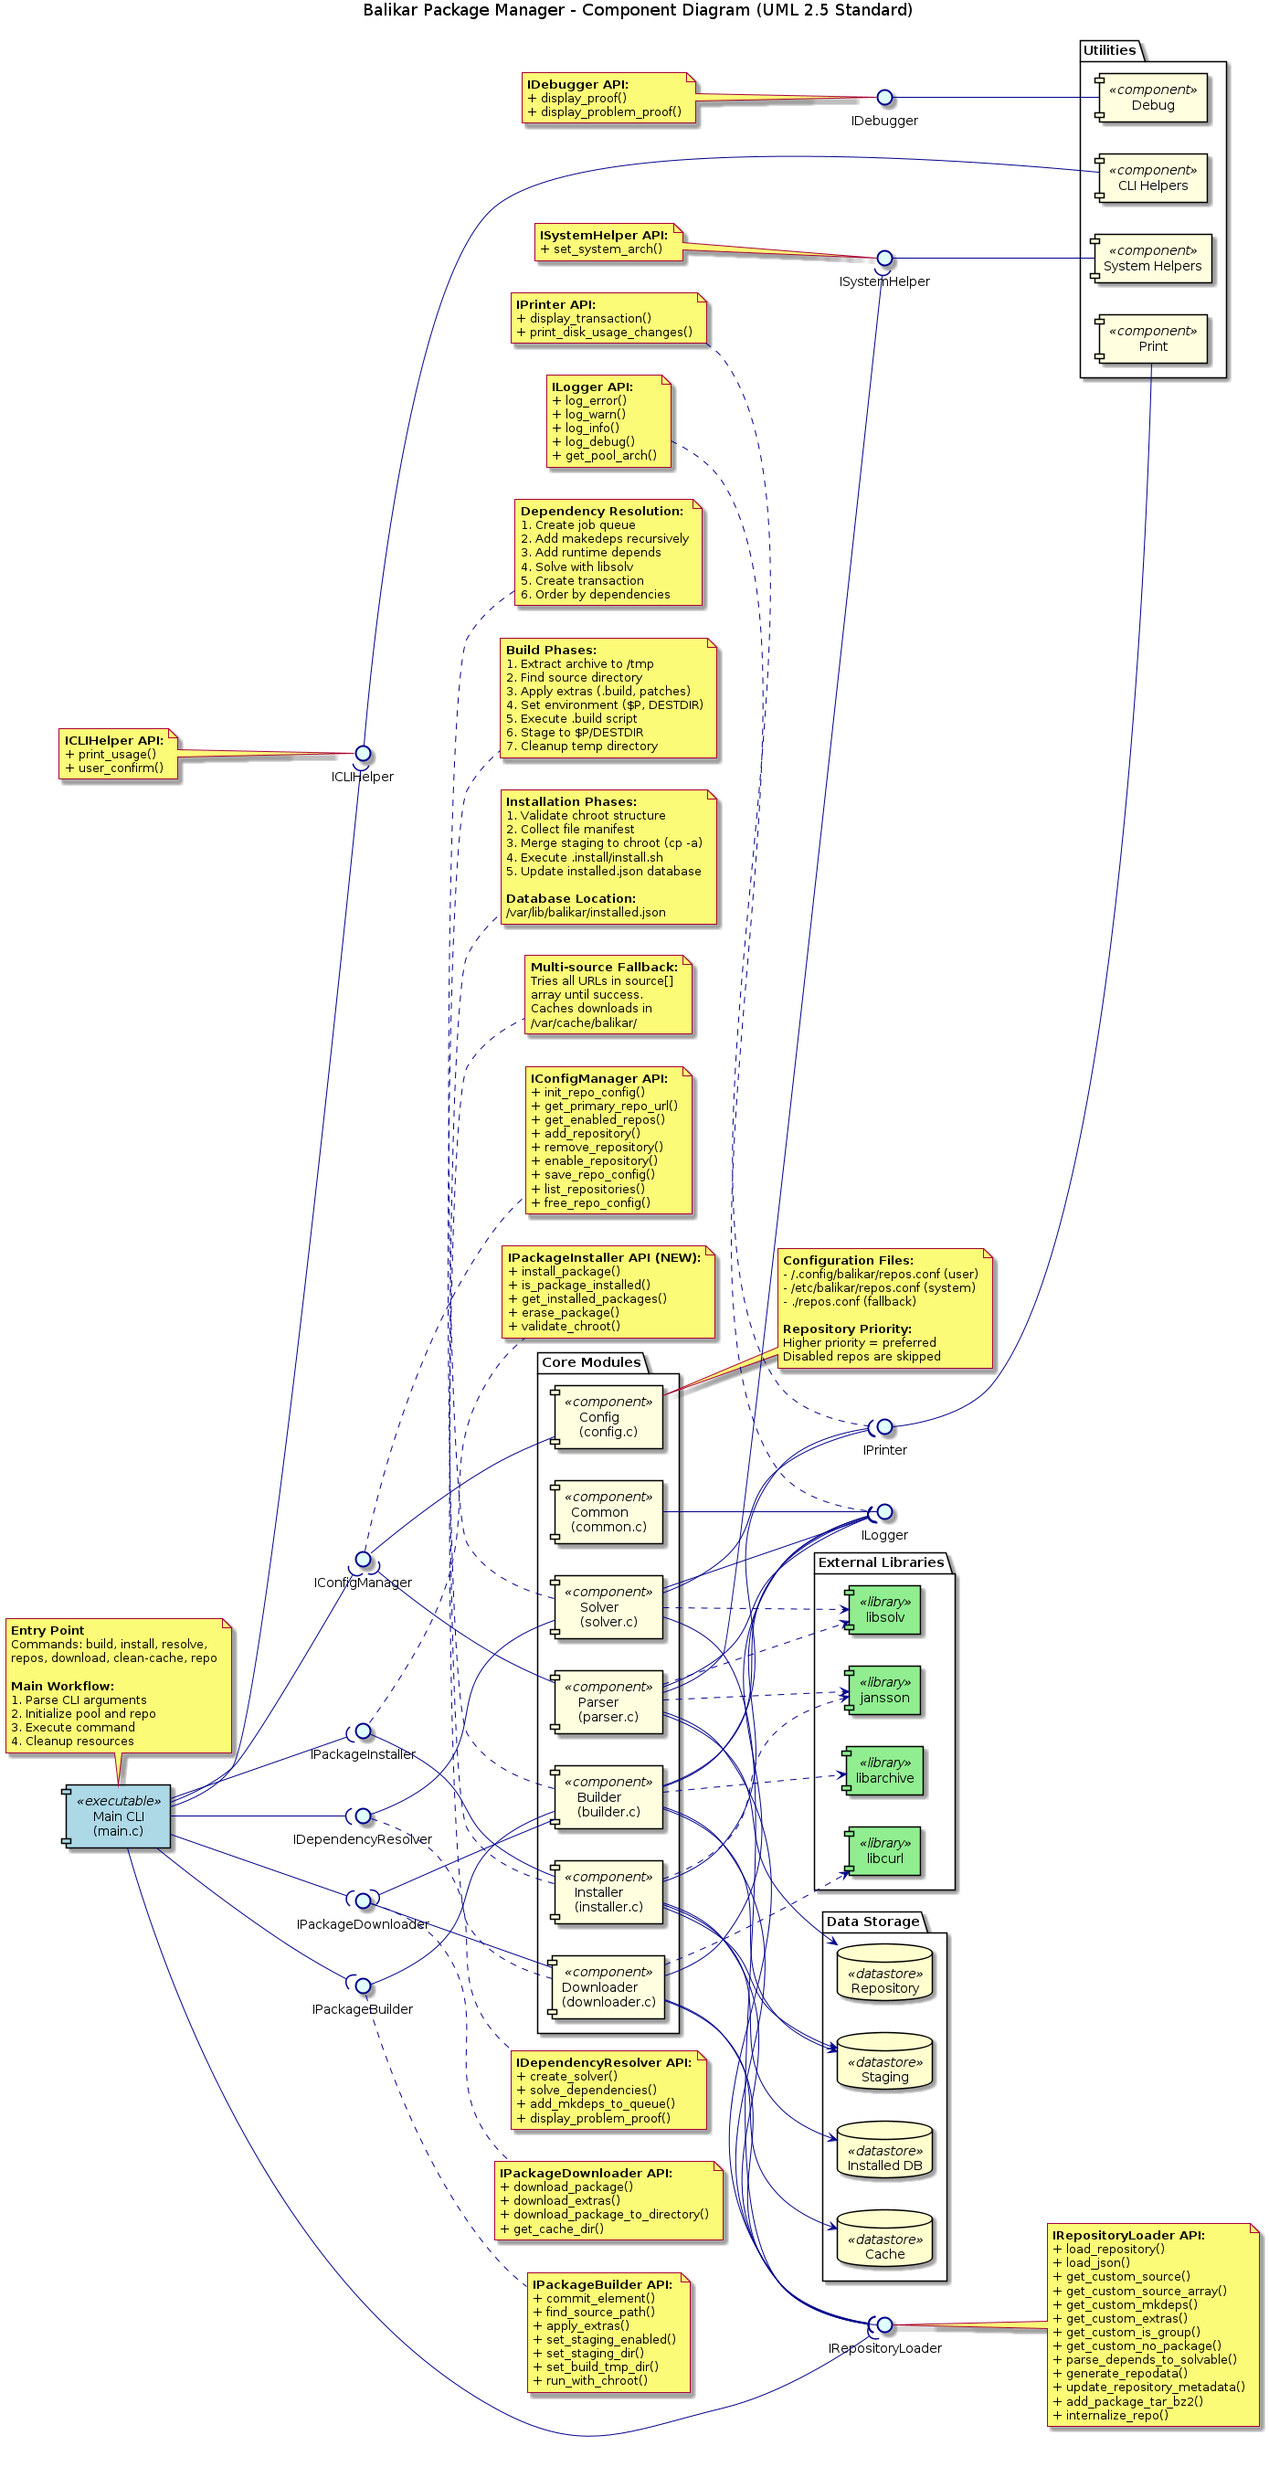
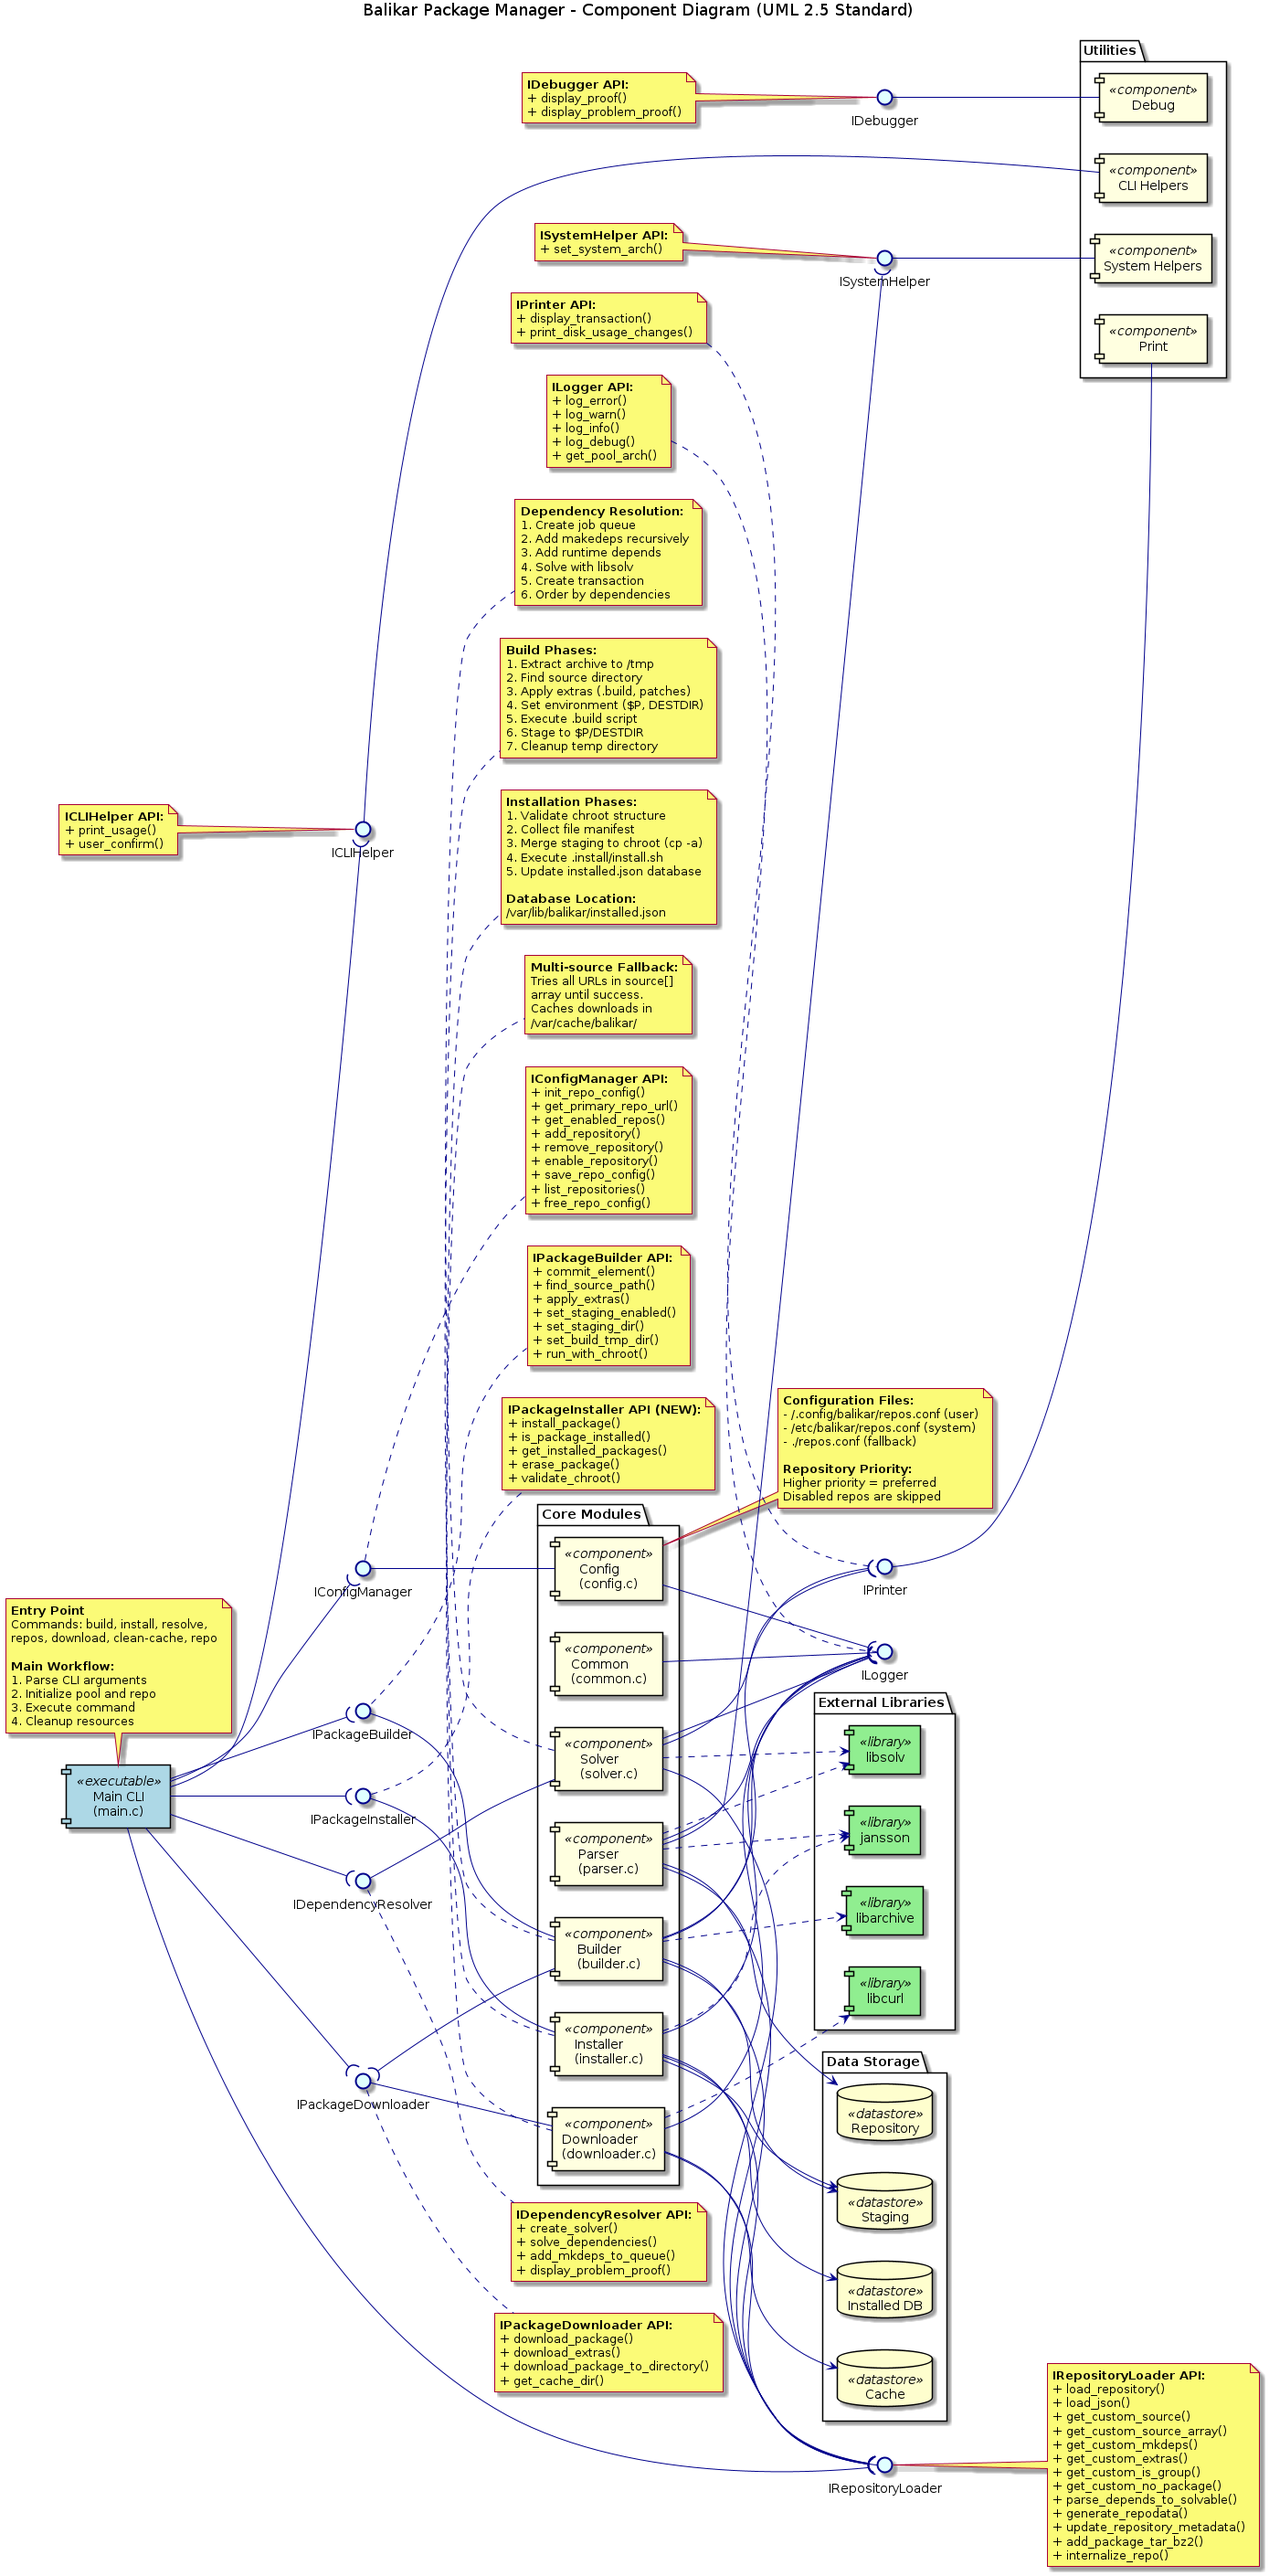
updated installer

diff --git a/src/balikar/main.c b/src/balikar/main.c
@@ -20,7 +20,7 @@ typedef struct {
     int no_staging;          // If 1, disable staging directory usage
     int no_deps;             // If 1, download without dependencies
     char *staging_dir;       // Custom staging directory path
-    char *chroot_path;       // Chroot environment path (for isolated builds)
+    char *root_path;         // Target root for installation (default /)
     char *build_tmp_dir;     // Custom temporary directory for builds
     char *repo_path;         // Repository URL or local path
     char *local_package;     // Local package file path
@@ -46,7 +46,7 @@ static void parse_args(int argc, char **argv, cli_config_t *cfg) {
         {"no-staging", no_argument, 0, 'S'},
         {"no-deps", no_argument, 0, 'N'},
         {"staging-dir", required_argument, 0, 's'},
-        {"chroot-path", required_argument, 0, 'c'},
+        {"root", required_argument, 0, 'R'},
         {"build-tmp-dir", required_argument, 0, 't'},
         {"repo", required_argument, 0, 'r'},
         {"local-package", required_argument, 0, 'l'},
@@ -77,8 +77,8 @@ static void parse_args(int argc, char **argv, cli_config_t *cfg) {
             case 's':  // Staging-dir - custom staging directory
                 cfg->staging_dir = strdup(optarg);
                 break;
-            case 'c':  // Chroot-path - chroot environment path
-                cfg->chroot_path = strdup(optarg);
+            case 'R':  // Root - target root for installation
+                cfg->root_path = strdup(optarg);
                 break;
             case 't':  // Build-tmp-dir - custom build temporary directory
                 cfg->build_tmp_dir = strdup(optarg);
@@ -400,51 +400,43 @@ int main(int argc, char **argv) {
                     download_extras(extras, pkg_name, version, cfg.repo_path, NULL);
                     if (extras) json_decref(extras);
                     
-                    // If install command, set staging_dir to chroot before building
-                    // This ensures $P points to the correct chroot in .build scripts
-                    const char *original_staging = NULL;
-                    if (strcmp(cfg.command, "install") == 0) {
-                        const char *chroot = cfg.chroot_path ? cfg.chroot_path : "/tmp/pm-chroot";
-                        // Save original staging_dir if it was set
-                        if (cfg.staging_dir) {
-                            original_staging = strdup(cfg.staging_dir);
-                        }
-                        // Set staging to chroot for build
-                        set_staging_dir(chroot);
-                        log_debug(1, "Building into chroot: %s", chroot);
-                    }
-                    
-                    // Build package
+                    // Build package into staging directory
+                    // Always build to staging first, then install if needed
                     log_info("Building %s...", pkg_name);
                     int build_rc = commit_element(trans, data, p, fp, pool);
                     if (build_rc != 0) {
                         log_error("Build failed for %s.", pkg_name);
                         exit_code = ERR_BUILD_FAIL;
-                        // Restore original staging if needed
-                        if (original_staging) {
-                            set_staging_dir(original_staging);
-                            free((char *)original_staging);
-                        }
                         break;
                     }
                     
                     log_info("Successfully built %s.", pkg_name);
                     
-                    // Restore original staging directory if needed
-                    if (original_staging) {
-                        set_staging_dir(original_staging);
-                        free((char *)original_staging);
-                    }
-                    
                     // Install package if command is 'install' (not just 'build')
-                    // When building with install command, files are already in chroot
-                    // Just record the installation in the database
+                    // Two-stage approach: build → install
                     if (strcmp(cfg.command, "install") == 0) {
-                        const char *chroot = cfg.chroot_path ? cfg.chroot_path : "/tmp/pm-chroot";
-                        log_info("Package %s installed to chroot: %s", pkg_name, chroot);
+                        // Determine target root for installation
+                        const char *target_root = cfg.root_path ? cfg.root_path : "/"; // Default: native system
                         
-                        // TODO: Record installation in database for tracking
-                        // This would allow 'balikar list' and 'balikar erase' commands
+                        // Get staging directory where builder created files
+                        const char *staging = cfg.staging_dir ? cfg.staging_dir : STAGING_DIR;
+                        
+                        log_info("Installing %s to %s...", pkg_name, target_root);
+                        
+                        // Call installer to merge staging → target root
+                        if (install_package(pkg_name, version, staging, target_root) != 0) {
+                            log_error("Installation failed for %s.", pkg_name);
+                            exit_code = ERR_BUILD_FAIL;
+                            break;
+                        }
+                        
+                        log_info("Successfully installed %s to %s", pkg_name, target_root);
+                        
+                        // Cleanup staging directory after successful installation
+                        char cleanup_cmd[512];
+                        snprintf(cleanup_cmd, sizeof(cleanup_cmd), "rm -rf '%s'/* 2>/dev/null", staging);
+                        system(cleanup_cmd);
+                        log_debug(1, "Cleaned up staging directory: %s", staging);
                     }
                 }
             }
@@ -756,7 +748,7 @@ cleanup:
 cleanup_no_repo:
     // Cleanup: free all dynamically allocated configuration strings
     if (cfg.staging_dir) free(cfg.staging_dir);
-    if (cfg.chroot_path) free(cfg.chroot_path);
+    if (cfg.root_path) free(cfg.root_path);
     if (cfg.build_tmp_dir) free(cfg.build_tmp_dir);
     if (cfg.repo_path) free(cfg.repo_path);
     if (cfg.local_package) free(cfg.local_package);

diff --git a/src/utils/system_helpers.c b/src/utils/system_helpers.c
@@ -45,3 +45,27 @@ void set_system_arch(Pool *pool) {
     pool_setarch(pool, final_arch);
     log_info("Pool arch set to: %s", final_arch);
 }
+
+/**
+ * Retrieves the architecture string from a libsolv pool.
+ * Uses direct access to pool->lastarch for accurate architecture detection.
+ * @param pool Pool instance to query
+ * @return Architecture string (e.g., "x86_64", "i686"), or "unknown" if pool is NULL
+ */
+const char *get_pool_arch(const Pool *pool) {
+
+    if (!pool) {
+        return "unknown";
+    }
+
+    // Direct access to lastarch - correct method for getting current architecture
+    if (pool->lastarch) {
+        const char *arch = pool_id2str(pool, pool->lastarch);
+        if (arch && strlen(arch) > 0) {
+            return arch;
+        }
+    }
+
+    // Fallback to default architecture
+    return "x86_64";
+}

diff --git a/src/common/common.c b/src/common/common.c
@@ -68,26 +68,3 @@ void log_warn(const char *fmt, ...) {
 
 #endif
 
-/**
- * Retrieves the architecture string from a libsolv pool.
- * Uses direct access to pool->lastarch for accurate architecture detection.
- * @param pool Pool instance to query
- * @return Architecture string (e.g., "x86_64", "i686"), or "unknown" if pool is NULL
- */
-const char *get_pool_arch(const Pool *pool) {
-
-    if (!pool) {
-        return "unknown";
-    }
-
-    // Direct access to lastarch - correct method for getting current architecture
-    if (pool->lastarch) {
-        const char *arch = pool_id2str(pool, pool->lastarch);
-        if (arch && strlen(arch) > 0) {
-            return arch;
-        }
-    }
-
-    // Fallback to default architecture
-    return "x86_64";
-}

diff --git a/src/utils/includes/system_helpers.h b/src/utils/includes/system_helpers.h
@@ -17,4 +17,10 @@
 // pool: Pool instance to configure
 void set_system_arch(Pool *pool);
 
+// Retrieves the architecture string from a libsolv pool.
+// Uses direct access to pool->lastarch for accurate architecture detection.
+// pool: Pool instance to query
+// Returns: Architecture string (e.g., "x86_64", "i686"), or "unknown" if pool is NULL
+const char *get_pool_arch(const Pool *pool);
+
 #endif //IMPL_SYSTEM_HELPERS_H

diff --git a/src/common/common.h b/src/common/common.h
@@ -112,6 +112,6 @@ void log_warn(const char *fmt, ...);
 
 // Get architecture string from libsolv pool
 // Returns "x86_64", "i686", etc., or "unknown" if pool is NULL
-const char *get_pool_arch(const Pool *pool);
+
 
 #endif //IMPL_COMMON_H

diff --git a/doc/diagrams/component_diagram.md b/doc/diagrams/component_diagram.md
@@ -42,7 +42,7 @@ User → main.c
   ↓
   → builder.c → extract + build → $P/ (staging)
   ↓
-  → installer.c → merge to chroot → /var/lib/balikar/installed.json
+  → installer.c → merge to target root → /var/lib/balikar/installed.json
 ```
 
 ## Provided Interfaces (UML 2.5)
@@ -93,11 +93,11 @@ User → main.c
 
 ### IPackageInstaller (installer.c) - NEW
 ```c
-+ install_package(pkg_name: const char*, pkg_version: const char*, staging_dir: const char*, chroot_path: const char*): int
++ install_package(pkg_name: const char*, pkg_version: const char*, staging_dir: const char*, root_path: const char*): int
 + is_package_installed(pkg_name: const char*): int
 + get_installed_packages(): json_t*
-+ erase_package(pkg_name: const char*, chroot_path: const char*): int
-+ validate_chroot(chroot_path: const char*): int
++ erase_package(pkg_name: const char*, root_path: const char*): int
++ validate_root(root_path: const char*): int
 ```
 
 ### IConfigManager (config.c)
@@ -119,7 +119,6 @@ User → main.c
 + log_warn(fmt: const char*, ...): void
 + log_info(fmt: const char*, ...): void
 + log_debug(level: int, fmt: const char*, ...): void
-+ get_pool_arch(pool: const Pool*): const char*
 ```
 
 ### ICLIHelper (cli_helpers.c)
@@ -143,6 +142,7 @@ User → main.c
 ### ISystemHelper (system_helpers.c)
 ```c
 + set_system_arch(pool: Pool*): void
++ get_pool_arch(pool: const Pool*): const char*
 ```
 
 ## Key Workflows
